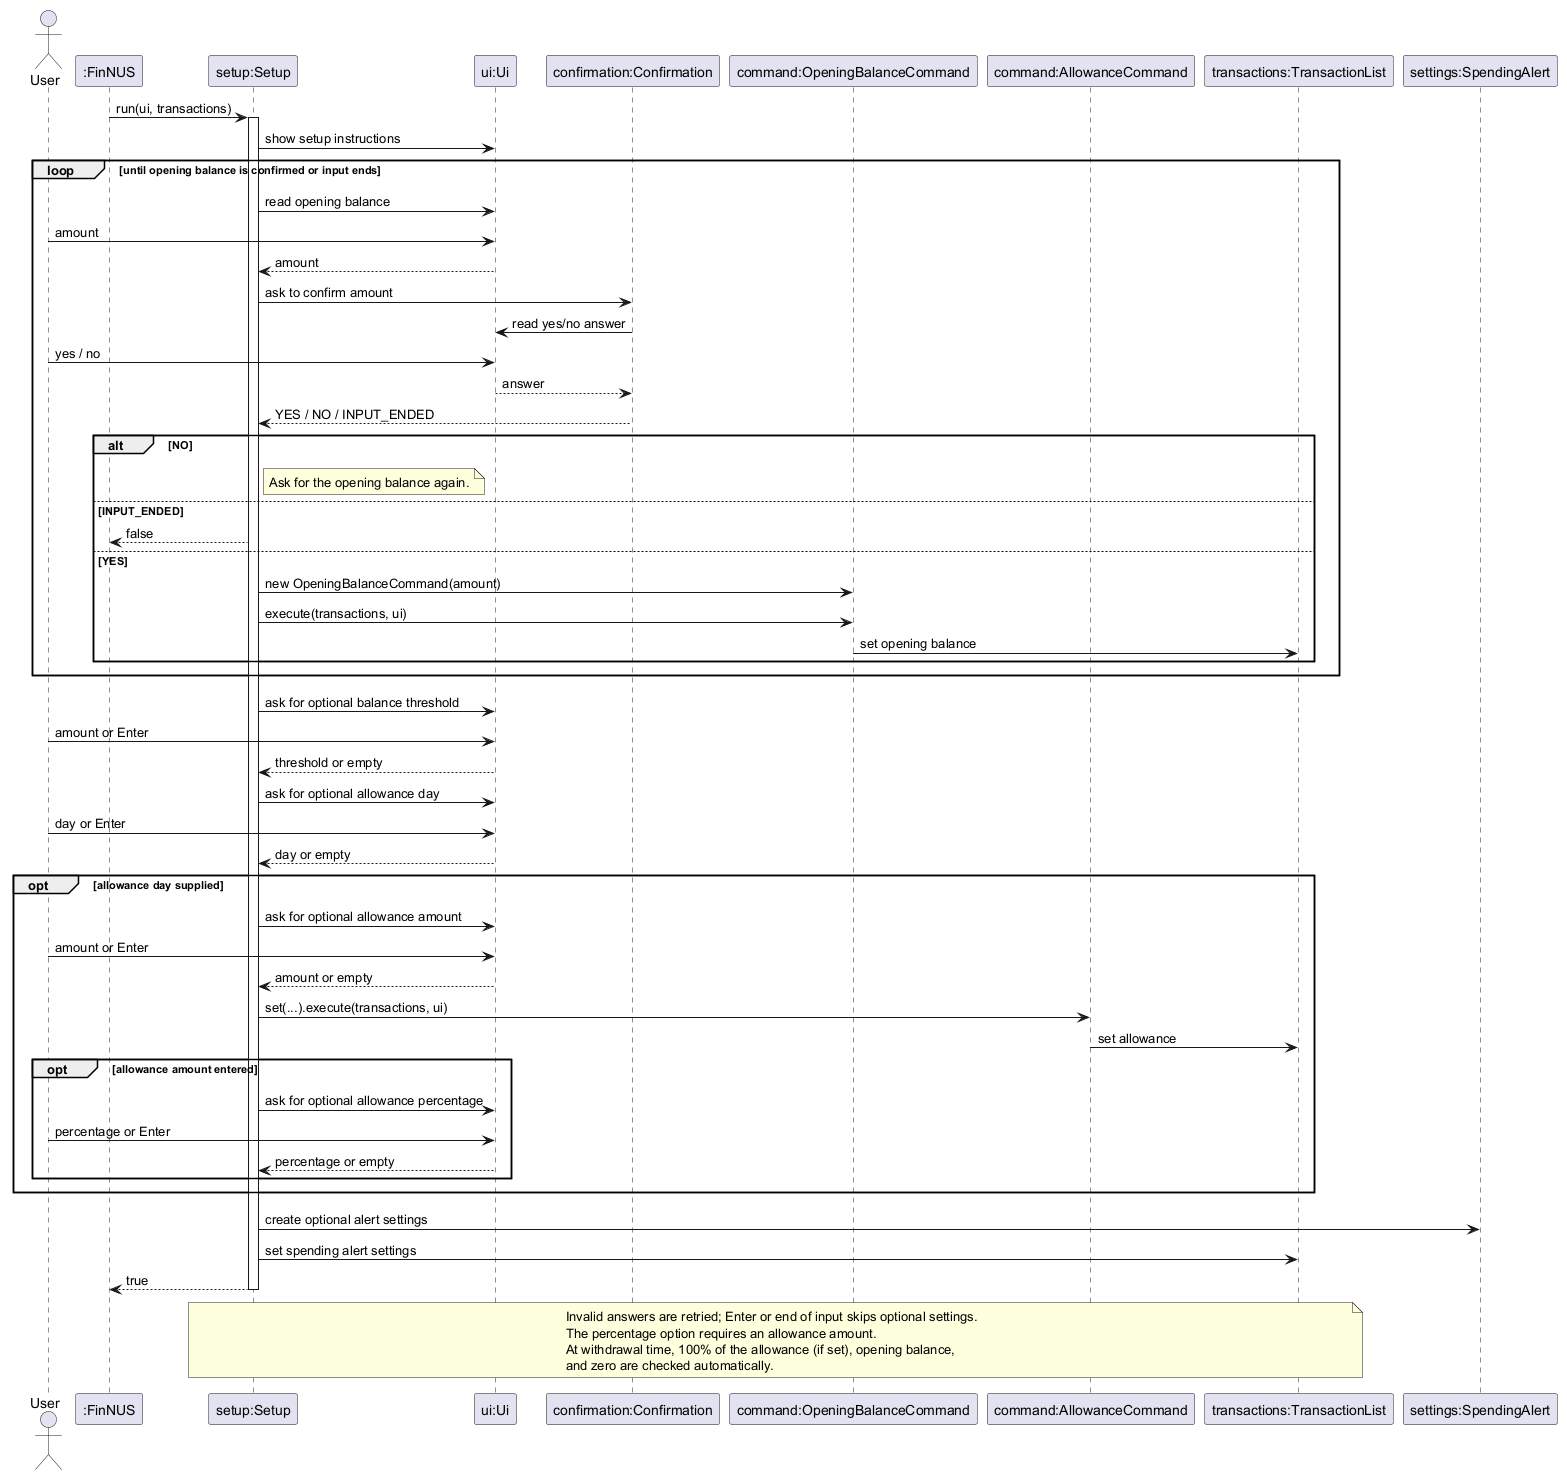
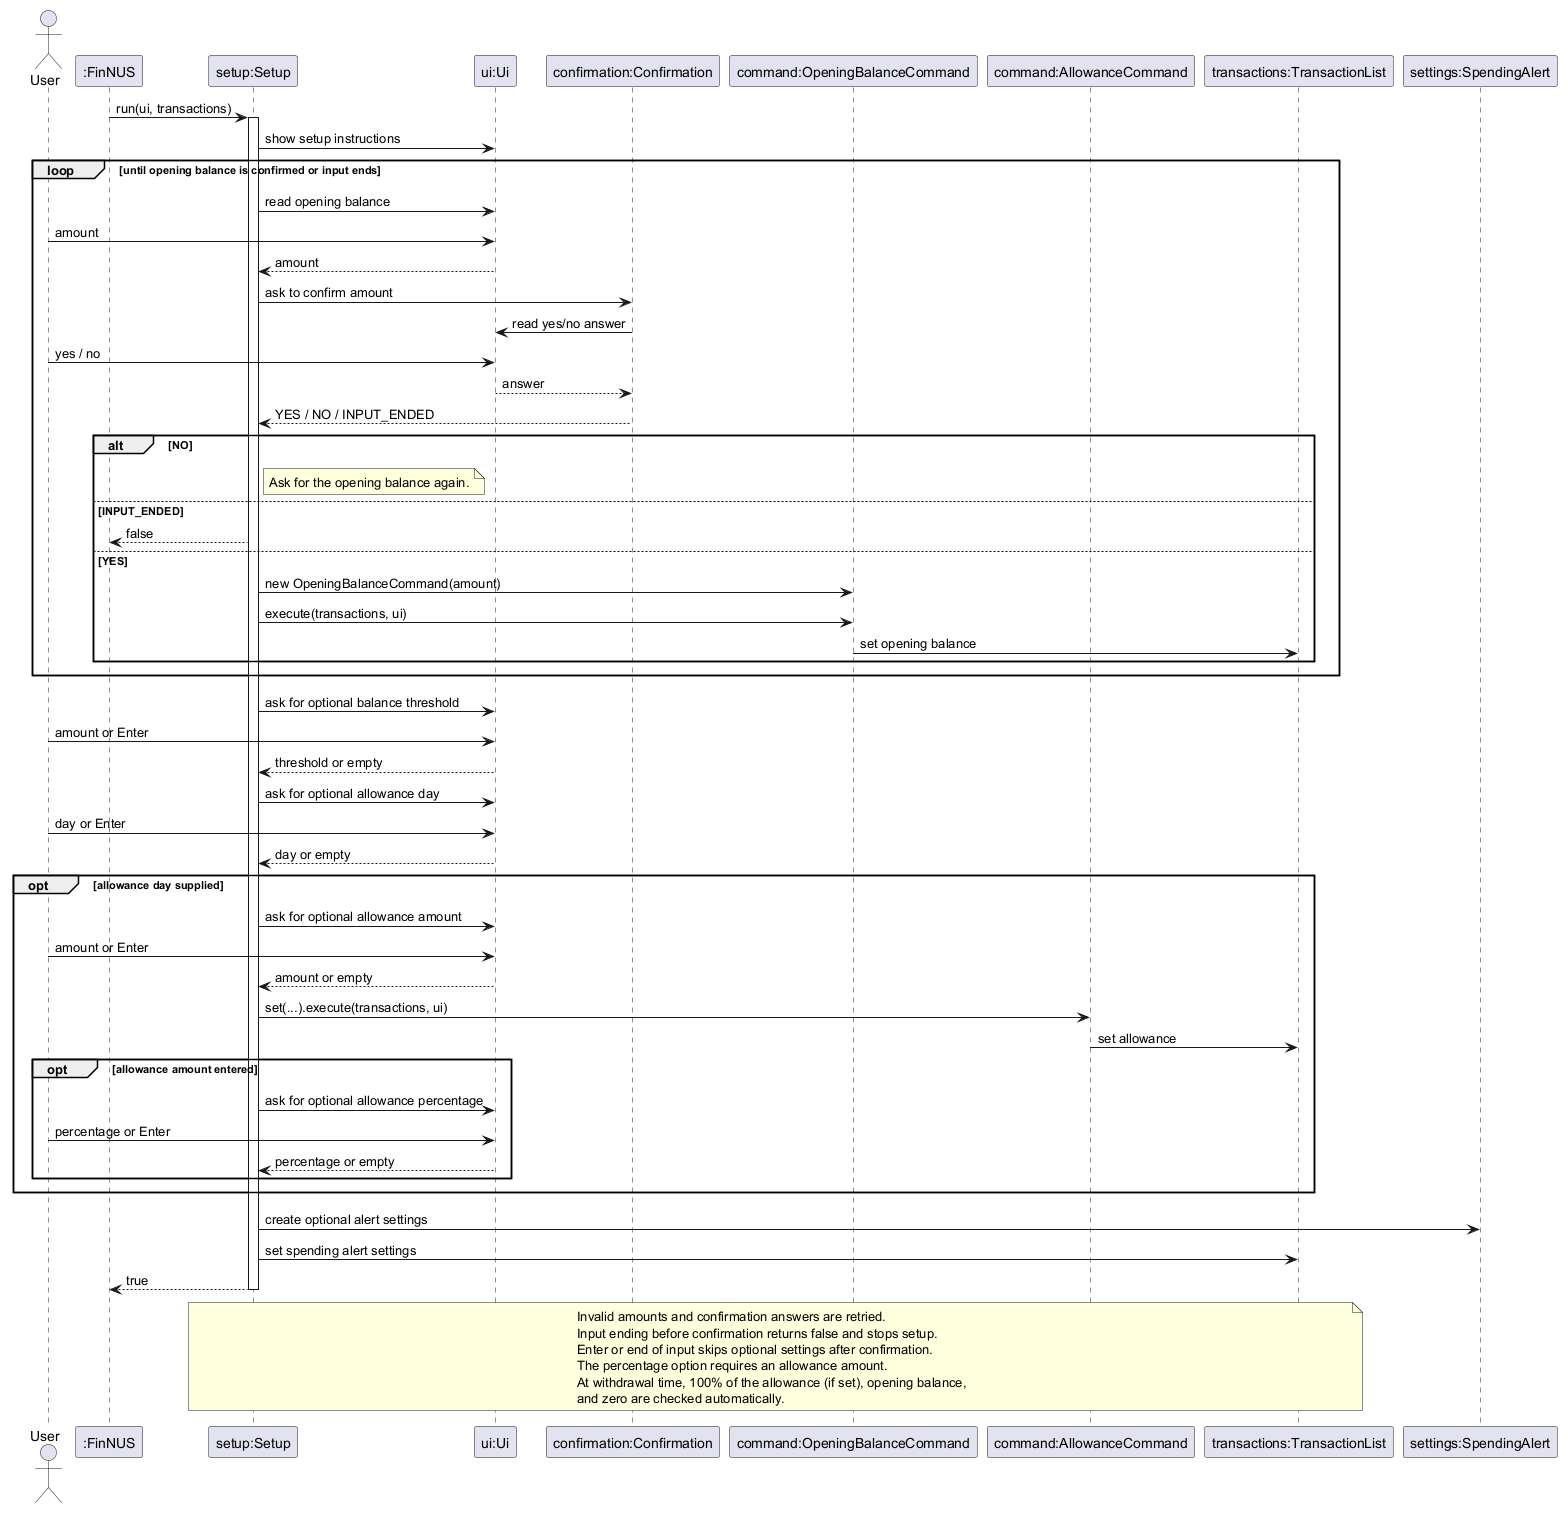
Update diagrams

diff --git a/docs/DeveloperGuide.md b/docs/DeveloperGuide.md
@@ -113,7 +113,7 @@ modify the ledger and display results through the UI. Storage loads and saves co
 
 ![Successful deposit from console input to automatic saving](images/CommandExecutionSequenceDiagram.png)
 
-*Figure 2. A successful SGD deposit after setup. The reference frame expands into Figure 15's saving sequence.
+*Figure 2. A successful SGD deposit after setup. The reference frame expands into Figure 18's saving sequence.
 Transaction construction and snapshot internals are omitted.
 [PlantUML source](diagrams/CommandExecutionSequenceDiagram.puml).*
 
@@ -428,6 +428,11 @@ The sequence diagram below shows this interaction flow.
 The diagram summarises the prompts; the persistence callback between balance confirmation and optional questions
 is omitted. After optional setup completes, FinNUS saves any additional changes.
 
+<!-- @@author lololol8484 -->
+*Figure 7. First-run setup, including opening-balance confirmation and optional alert and allowance settings.
+[PlantUML source](diagrams/SetupSequenceDiagram.puml).*
+<!-- @@author -->
+
 <!-- @@author chancheese -->
 <!-- @@author lololol8484 -->
 `Setup` asks for the optional balance threshold before the allowance prompts. The optional percentage prompt only
@@ -472,6 +477,16 @@ withdrawal. Comparisons report a threshold only when the value moves from its sa
 later recovers and crosses again, a new alert is shown. A single withdrawal can cross several thresholds and produces
 one confirmation listing them all. When the opening balance is zero, the opening-balance and zero conditions coincide
 and both descriptions are included.
+
+<!-- @@author lololol8484 -->
+The following sequence focuses on the confirmation boundary: a withdrawal is added only after the user approves any
+newly crossed thresholds.
+
+![Sequence diagram of spending-alert confirmation](images/SpendingAlertSequenceDiagram.png)
+
+*Figure 8. Checking spending thresholds and confirming a proposed withdrawal.
+[PlantUML source](diagrams/SpendingAlertSequenceDiagram.puml).*
+<!-- @@author -->
 
 `Confirmation#ask()` handles yes/no parsing and invalid-answer retries. It returns `YES`, `NO`, or `INPUT_ENDED`, leaving
 each caller to decide what those results mean. Setup uses it for opening-balance confirmation; spending alerts use it
@@ -542,6 +557,13 @@ An invalid or out-of-range index raises `FinNusException`; the main loop display
 continues without changing the ledger. `DeleteCommandTest` and `ParserTest` cover command
 validation and deletion behavior.
 
+<!-- @@author lololol8484 -->
+![Sequence diagram of deleting a transaction](images/DeleteSequenceDiagram.png)
+
+*Figure 9. Converting a newest-first display index before deleting a transaction.
+[PlantUML source](diagrams/DeleteSequenceDiagram.puml).*
+<!-- @@author -->
+
 #### Design considerations
 
 <!-- @@author lololol8484 -->
@@ -576,7 +598,7 @@ This sequence shows a successful `edit 1 a/6.50` on an SGD withdrawal:
 
 ![Sequence diagram of editing a withdrawal amount](images/EditSequenceDiagram.png)
 
-*Figure 7. A successful SGD edit that crosses no new alert threshold. Validation details, spending-alert confirmation,
+*Figure 10. A successful SGD edit that crosses no new alert threshold. Validation details, spending-alert confirmation,
 UI output, allowance handling and saving are omitted.
 [PlantUML source](diagrams/EditSequenceDiagram.puml).*
 
@@ -662,7 +684,7 @@ This sequence shows the normal path for `recent 2`:
 
 ![Sequence diagram of recent command](images/RecentCommandSequenceDiagram.png)
 
-*Figure 8. Retrieving and displaying up to two recent transactions.
+*Figure 11. Retrieving and displaying up to two recent transactions.
 [PlantUML source](diagrams/RecentSequenceDiagram.puml).*
 
 An X represents an object that is no longer referenced and can be garbage-collected. It does not represent an explicit
@@ -711,7 +733,7 @@ The sequence diagram follows a successful `history n/2 p/2`, `next`, and `stop` 
 
 ![Sequence diagram of paginated history mode](images/HistorySequenceDiagram.png)
 
-*Figure 9. Opening, navigating, and leaving history mode. Snapshot comparison and automatic
+*Figure 12. Opening, navigating, and leaving history mode. Snapshot comparison and automatic
 allowance handling are omitted. [PlantUML source](diagrams/HistorySequenceDiagram.puml).*
 
 The command stores a zero-based `firstIndex` in newest-first order and a `pageSize`. It reads
@@ -728,7 +750,7 @@ The class diagram shows the session reference and how history reads `Transaction
 
 ![Class diagram of the history command and its collaborators](images/HistoryClassDiagram.png)
 
-*Figure 10. History command state and its application, parser, transaction list, and UI
+*Figure 13. History command state and its application, parser, transaction list, and UI
 relationships.
 [PlantUML source](diagrams/HistoryClassDiagram.puml).*
 
@@ -914,7 +936,7 @@ The sequence below follows the calculation and display of one `balance` request:
 
 ![Sequence diagram of a balance command](images/BalanceSequenceDiagram.png)
 
-*Figure 11. Calculating and displaying the current balance.
+*Figure 14. Calculating and displaying the current balance.
 [PlantUML source](diagrams/BalanceSequenceDiagram.puml).*
 
 An X represents an object that is no longer referenced and can be garbage-collected. It does not represent an explicit
@@ -946,7 +968,7 @@ Logging, console output, input validation, spending-alert confirmation and savin
 
 ![Sequence diagram of a foreign-currency withdrawal](images/ForeignTransactionSequenceDiagram.png)
 
-*Figure 12. Recording a JPY withdrawal, assuming a configured rate of 1 SGD = 110 JPY.
+*Figure 15. Recording a JPY withdrawal, assuming a configured rate of 1 SGD = 110 JPY.
 [PlantUML source](diagrams/ForeignTransactionSequenceDiagram.puml).*
 
 1. `Parser#extractCurrency()` removes the `c/CURRENCY` part from the arguments, so the rest is
@@ -1030,7 +1052,7 @@ The class diagram below shows how these classes are related. Only the members re
 
 ![Class diagram of the classes involved in categorising spending](images/CategoryClassDiagram.png)
 
-*Figure 13. Classes involved in categorising spending. [PlantUML source](diagrams/CategoryClassDiagram.puml).*
+*Figure 16. Classes involved in categorising spending. [PlantUML source](diagrams/CategoryClassDiagram.puml).*
 
 `TransactionList` owns exactly one `CategoryList`. `WithdrawCommand` and `CategoryCommand` do not keep a reference to
 it; they get it from the `TransactionList` they are given when they run, which is why the existence of a category
@@ -1120,7 +1142,7 @@ the [spending alert](#spending-alerts) check before `add()` are left out.
 
 ![Sequence diagram of a withdrawal with a category and a date](images/DatedCategorisedWithdrawSequenceDiagram.png)
 
-*Figure 14. Processing a dated, categorised withdrawal. [PlantUML source](diagrams/DatedCategorisedWithdrawSequenceDiagram.puml).*
+*Figure 17. Processing a dated, categorised withdrawal. [PlantUML source](diagrams/DatedCategorisedWithdrawSequenceDiagram.puml).*
 
 The parser removes `t/food` and `on/2026-10-20` first, so the remaining `4.50 d/Lunch` is split into amount and
 description exactly as for a plain withdrawal. The category name is passed to `WithdrawCommand` unchanged, and only
@@ -1279,7 +1301,7 @@ retry an earlier failed save even though it creates no new change itself.
 
 ![Automatic saving with encoding, backup rotation, and atomic replacement](images/AutomaticSaveSequenceDiagram.png)
 
-*Figure 15. One successful automatic save. File operations are summarised; failure handling is described in the notes
+*Figure 18. One successful automatic save. File operations are summarised; failure handling is described in the notes
 and recovery table. [PlantUML source](diagrams/AutomaticSaveSequenceDiagram.puml).*
 
 `FileStorage` writes UTF-8 text to a temporary file in the save directory. If the existing main file is known to be clean,
@@ -1302,7 +1324,7 @@ order. Simply starting the program and running read-only commands does not rewri
 
 ![Decisions for loading the main file, recovering a backup, and requesting setup](images/StorageRecoveryActivityDiagram.png)
 
-*Figure 16. Startup recovery policy. Guards select the next action; the final node ends loading, not the application.
+*Figure 19. Startup recovery policy. Guards select the next action; the final node ends loading, not the application.
 First-run setup runs afterwards when requested. [PlantUML source](diagrams/StorageRecoveryActivityDiagram.puml).*
 
 | Situation                                                                  | Recovered state and diagnostics                                                                                            | Saving and file protection                                                                                                                                                       |
@@ -1375,13 +1397,13 @@ changing it.
 
 ![Class diagram for both chart commands and their shared period](images/ChartClassDiagram.png)
 
-*Figure 17. A flow command has one `ChartPeriod`; a spending command has zero or one. Both read a
+*Figure 20. A flow command has one `ChartPeriod`; a spending command has zero or one. Both read a
 `TransactionList`, which has one category list and zero or more transactions. Dashed dependencies
 have no multiplicity. [PlantUML source](diagrams/ChartClassDiagram.puml).*
 
 ![Sequence diagram for chart parsing, aggregation, and display](images/ChartSequenceDiagram.png)
 
-*Figure 18. Parsing and displaying either chart form. The enum lifeline receives static `parse()`;
+*Figure 21. Parsing and displaying either chart form. The enum lifeline receives static `parse()`;
 `period:ChartPeriod` receives calls on the returned constant. The chart command's lifeline ends when
 its local reference leaves scope, without implying immediate garbage collection. Activation bars
 show execution; dashed arrows show returns. Snapshot comparison and pending-save retry are
